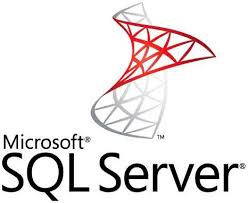
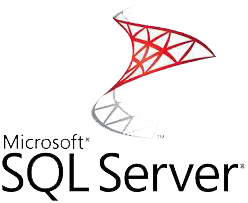
started image transparacy

diff --git a/index.html b/index.html
@@ -8,7 +8,7 @@
     height: auto;
     width: 100%;
 }
-.Header {
+.Top {
     float: none;
     height: auto;
     width: 100%;
@@ -49,7 +49,7 @@
 
 <body bgcolor="#CC20F3">
 <div class="Container">
-  <div class="Header">
+  <div class="Top">
     <div class="Logo" align="center"> <img src="images/logo.png" alt="MySQL logo">
       <h1> MySQL Databases</h1>
     </div>
